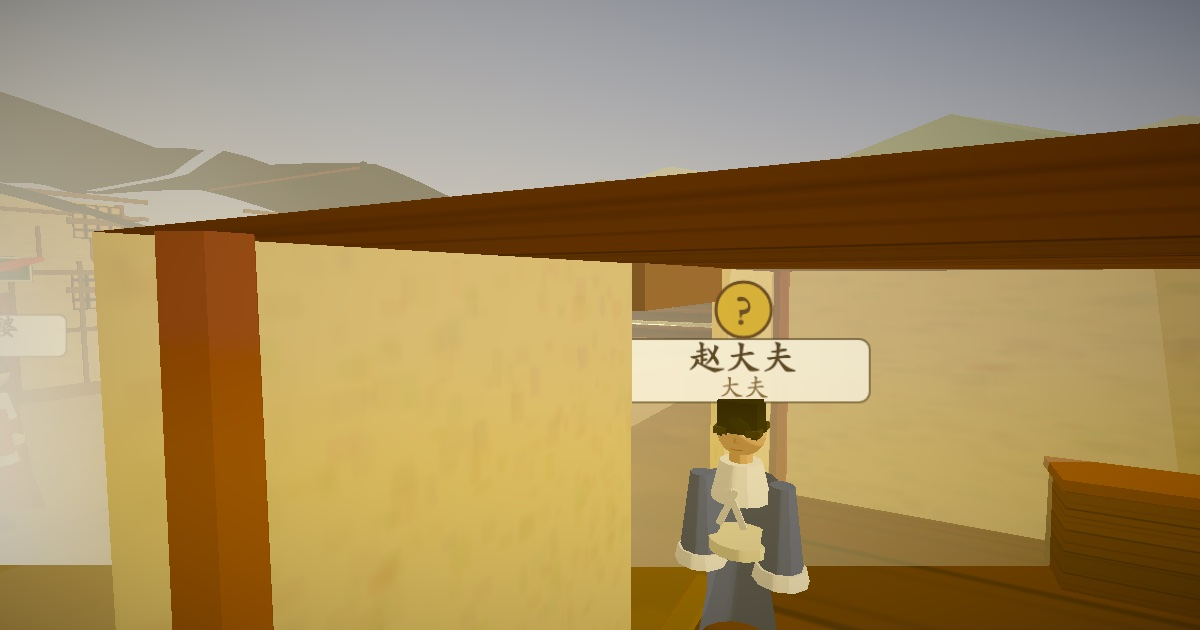
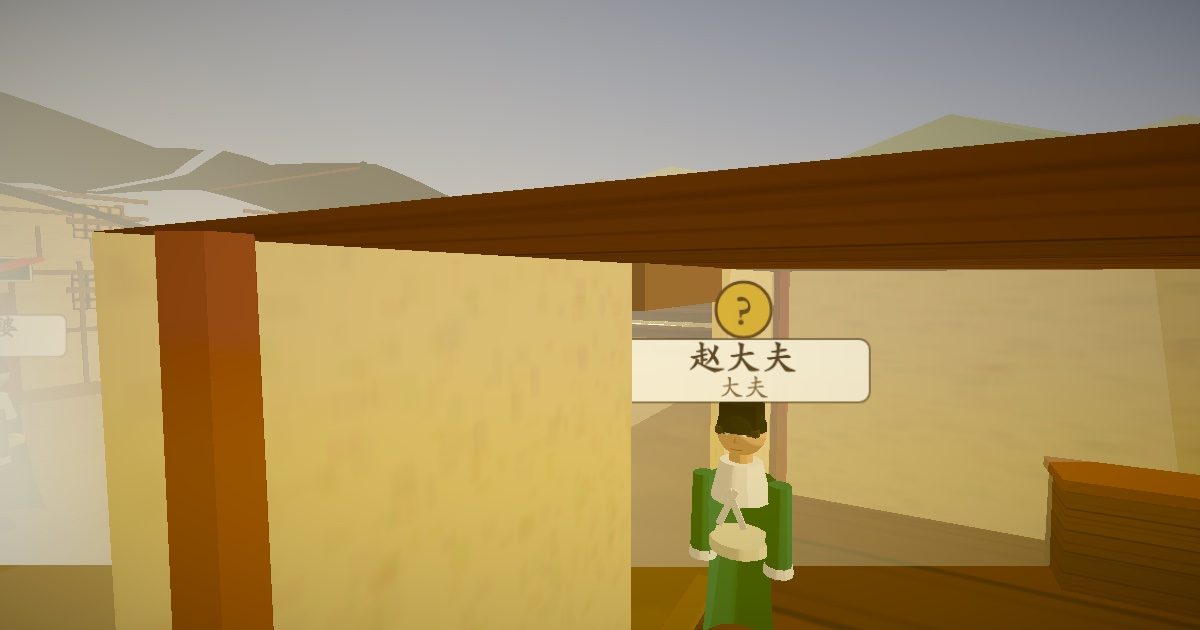
江湖风调校：翩翩公子束发玉冠 / 修身直袖 / 简洁乌纱帽
- 袖子：宽官袖 → 修身直袖（男 0.10H→0.058H），利落不臃肿
- 长袍：A字散摆 → 直裰修身（肩→腰→摆，束腰显身段）
- 帽子：夸张双翼官帽 → 简洁乌纱帽(圆帽+细金沿)，删 futou/official
- 书生/主角：束发+玉冠(金环+顶珠)翩翩公子造型，无需帽子
- NPC 衣料色板扩充，市井配色更多样
- og-cover 重生成

Changed region(s): [[0.555, 0.7238, 0.6783, 1.0], [0.5858, 0.6333, 0.6475, 0.6635]]

diff --git a/src/chars/Character.js b/src/chars/Character.js
@@ -66,16 +66,16 @@ export class Character extends THREE.Group {
       sash.position.y = H * 0.15;
       this.body.add(sash);
     } else {
-      // 长袍：肩→腰→摆的优雅曲线（交领右衽）
+      // 直裰长袍：修身合体（肩略宽→腰收→摆微展），翩翩公子般挺拔
       const robe = new THREE.Mesh(new THREE.LatheGeometry([
-        new THREE.Vector2(H * 0.17 * g, H * 0.38),   // 肩
-        new THREE.Vector2(H * 0.146 * g, H * 0.12),  // 腰（微收）
-        new THREE.Vector2(H * 0.153 * g, -H * 0.14), // 胯
-        new THREE.Vector2(H * 0.197 * g, -H * 0.38), // 摆
+        new THREE.Vector2(H * 0.16 * g, H * 0.38),   // 肩
+        new THREE.Vector2(H * 0.138 * g, H * 0.12),  // 腰（收束显身段）
+        new THREE.Vector2(H * 0.15 * g, -H * 0.14),  // 胯
+        new THREE.Vector2(H * 0.175 * g, -H * 0.38), // 摆（微展，行走飘动）
       ], 16), clothMat);
       this.body.add(robe);
-      // 腰带
-      const sash = new THREE.Mesh(new THREE.CylinderGeometry(H * 0.15 * g, H * 0.15 * g, H * 0.05, 16), trimMat);
+      // 腰带（束腰显身段）
+      const sash = new THREE.Mesh(new THREE.CylinderGeometry(H * 0.142 * g, H * 0.142 * g, H * 0.05, 16), trimMat);
       sash.position.y = H * 0.10;
       this.body.add(sash);
     }
@@ -121,24 +121,24 @@ export class Character extends THREE.Group {
     this._applyHeadStyle(headR);
     this.add(this.headGroup);
 
-    // ---- 宽袖（肩枢轴：宽袖口 + 白内衬 + 露手） ----
-    const shoulderW = (isWoman ? H * 0.34 : H * 0.38) * g;
-    const sTopR = isWoman ? H * 0.045 : H * 0.052;
-    const sCuffR = isWoman ? H * 0.075 : H * 0.10;
-    const sLen = isWoman ? H * 0.34 : H * 0.40;
+    // ---- 直袖（肩枢轴：修身直袖 + 细白内衬 + 露手），江湖利落 ----
+    const shoulderW = (isWoman ? H * 0.32 : H * 0.36) * g;
+    const sTopR = isWoman ? H * 0.04 : H * 0.048;
+    const sCuffR = isWoman ? H * 0.05 : H * 0.058;   // 近直袖（微展），不臃肿
+    const sLen = isWoman ? H * 0.34 : H * 0.38;
     this.shoulderL = this._limbPivot(-shoulderW / 2, shoulderY);
     this.shoulderR = this._limbPivot(shoulderW / 2, shoulderY);
     for (const p of [this.shoulderL, this.shoulderR]) {
       const sleeve = new THREE.Mesh(new THREE.CylinderGeometry(sTopR, sCuffR, sLen, 10), clothMat);
       sleeve.position.y = -sLen / 2;
       p.add(sleeve);
-      // 袖口白内衬（露出内衬边）
-      const cuff = new THREE.Mesh(new THREE.CylinderGeometry(sCuffR * 1.04, sCuffR * 1.18, H * 0.06, 10), toon({ color: this.app.sleeveColor || 0xf2ecda }));
-      cuff.position.y = -sLen + H * 0.03;
+      // 袖口细白内衬
+      const cuff = new THREE.Mesh(new THREE.CylinderGeometry(sCuffR * 1.02, sCuffR * 1.1, H * 0.04, 10), toon({ color: this.app.sleeveColor || 0xf2ecda }));
+      cuff.position.y = -sLen + H * 0.022;
       p.add(cuff);
-      // 袖口露出的手
-      const hand = new THREE.Mesh(new THREE.SphereGeometry(sCuffR * 0.8, 10, 8), skinMat);
-      hand.position.y = -sLen + H * 0.06;
+      // 袖口露出的手（小巧）
+      const hand = new THREE.Mesh(new THREE.SphereGeometry(sCuffR * 0.72, 8, 6), skinMat);
+      hand.position.y = -sLen + H * 0.045;
       p.add(hand);
       this.add(p);
     }
@@ -192,7 +192,17 @@ export class Character extends THREE.Group {
 
       if (hair === 'topknot') {            // 男子束发（插簪）
         bun(0, headR * 0.78, H * 0.045);
-        pin(0, headR * 0.78);
+        if (this.app.crown) {
+          // 翩翩公子：束发玉冠（金环束发 + 顶珠）
+          const ring = new THREE.Mesh(new THREE.CylinderGeometry(H * 0.058, H * 0.058, H * 0.038, 12), gold);
+          ring.position.y = headR * 0.58;
+          this.headGroup.add(ring);
+          const bead = new THREE.Mesh(new THREE.SphereGeometry(H * 0.015, 6, 5), gold);
+          bead.position.y = headR * 0.88;
+          this.headGroup.add(bead);
+        } else {
+          pin(0, headR * 0.78);
+        }
       } else if (hair === 'gaoji') {       // 女子高髻（竖立 + 簪花）
         const gaoji = new THREE.Mesh(new THREE.SphereGeometry(H * 0.055, 12, 10), hairMat);
         gaoji.scale.y = 1.7;
@@ -213,22 +223,20 @@ export class Character extends THREE.Group {
 
     // ---- 帽（宋制） ----
     const darkMat = toon({ color: 0x1c1814 });
-    if (hat === 'futou') {
-      // 幞头：圆帽 + 两直脚平展（宋式直脚幞头）
-      const dome = new THREE.Mesh(new THREE.SphereGeometry(headR * 1.06, 16, 12, 0, Math.PI * 2, 0, Math.PI / 2), darkMat);
-      dome.position.y = headR * 0.32;
-      this.headGroup.add(dome);
-      for (const s of [-1, 1]) {
-        const wing = new THREE.Mesh(flat(new THREE.BoxGeometry(H * 0.26, H * 0.013, H * 0.02)), darkMat);
-        wing.position.set(s * H * 0.12, headR * 0.34, -headR * 1.0);
-        this.headGroup.add(wing);
-      }
+    if (hat === 'guan') {
+      // 乌纱帽：贴合圆帽 + 细金沿（官/将/衙），去夸张翅膀
+      const cap = new THREE.Mesh(new THREE.SphereGeometry(headR * 0.98, 16, 12, 0, Math.PI * 2, 0, Math.PI / 2), darkMat);
+      cap.position.y = headR * 0.34;
+      this.headGroup.add(cap);
+      const band = new THREE.Mesh(flat(new THREE.CylinderGeometry(headR * 1.0, headR * 1.0, H * 0.02, 14)), gold);
+      band.position.y = headR * 0.16;
+      this.headGroup.add(band);
     } else if (hat === 'dongpo') {
       // 东坡巾：软方帽 + 帽缘横带
-      const square = new THREE.Mesh(flat(new THREE.BoxGeometry(headR * 1.6, H * 0.15, headR * 1.6)), darkMat);
-      square.position.y = headR * 0.62;
+      const square = new THREE.Mesh(flat(new THREE.BoxGeometry(headR * 1.5, H * 0.13, headR * 1.5)), darkMat);
+      square.position.y = headR * 0.58;
       this.headGroup.add(square);
-      const band = new THREE.Mesh(flat(new THREE.BoxGeometry(headR * 1.85, H * 0.028, headR * 1.85)), toon({ color: 0x3a3226 }));
+      const band = new THREE.Mesh(flat(new THREE.BoxGeometry(headR * 1.7, H * 0.026, headR * 1.7)), toon({ color: 0x3a3226 }));
       band.position.y = headR * 0.14;
       this.headGroup.add(band);
     } else if (hat === 'jin') {
@@ -244,17 +252,6 @@ export class Character extends THREE.Group {
       const brim = new THREE.Mesh(flat(new THREE.CylinderGeometry(headR * 2.4, headR * 2.4, H * 0.018, 16)), toon({ color: 0xd9c47f }));
       brim.position.y = headR * 0.30;
       this.headGroup.add(brim);
-    } else if (hat === 'official') {
-      // 官帽：圆帽 + 两直脚（微上扬）
-      const dome = new THREE.Mesh(new THREE.SphereGeometry(headR * 1.06, 16, 12, 0, Math.PI * 2, 0, Math.PI / 2), darkMat);
-      dome.position.y = headR * 0.32;
-      this.headGroup.add(dome);
-      for (const s of [-1, 1]) {
-        const wing = new THREE.Mesh(flat(new THREE.BoxGeometry(H * 0.22, H * 0.013, H * 0.02)), darkMat);
-        wing.position.set(s * H * 0.10, headR * 0.36, -headR * 1.0);
-        wing.rotation.x = 0.18;
-        this.headGroup.add(wing);
-      }
     } else if (hat === 'guanyin') {
       // 包髻（厨娘/织女头巾）
       const wrap = new THREE.Mesh(new THREE.CylinderGeometry(headR * 1.06, headR * 0.96, H * 0.14, 12), toon({ color: 0xcaa24a }));

diff --git a/src/chars/appearance.js b/src/chars/appearance.js
@@ -8,25 +8,25 @@ export const HAIR_COLORS = ['#241a14', '#33241a', '#3d2a1c', '#4a3422', '#6b5138
 export const ROLE_PRESETS = {
   huolang:     { hat: 'straw', cloth: [0x8a6d3b, 0x6e8a4f, 0x7a5a34], trim: 0xc04a30, apron: 0xc9b478 },
   vendor:      { hat: 'straw', cloth: [0x955f8f, 0xb07c36, 0x54725a], trim: 0x2a2018 },
-  waiter:      { hat: 'jin',   cloth: [0x2f6d4f, 0x4a6b9a, 0x6e8a4f], trim: 0xc9a24a, apron: 0xe0d0a0, sleeveColor: 0xffffff },
-  tea:         { hat: 'jin',   cloth: [0x3c7a82, 0x5d6f9e], trim: 0xc9a24a },
-  scholar:     { hat: 'futou', cloth: [0x4a6b9a, 0x3a5a8a, 0x5d6f9e], trim: 0xe8dcb0, sleeveColor: 0xffffff },
+  waiter:      { hat: 'jin',   cloth: [0x2f6d4f, 0x4a6b9a, 0x6e8a4f, 0x955f8f, 0xb0622f], trim: 0xc9a24a, apron: 0xe0d0a0, sleeveColor: 0xffffff },
+  tea:         { hat: 'jin',   cloth: [0x3c7a82, 0x5d6f9e, 0x54725a, 0x8a6d3b], trim: 0xc9a24a },
+  scholar:     { hat: 'none',  cloth: [0x4a6b9a, 0x3a5a8a, 0x5d6f9e, 0x7a5aa0, 0x2f6d4f], trim: 0xe8dcb0, sleeveColor: 0xffffff, crown: true },
   monk:        { hat: 'none',  cloth: [0xa86e54, 0xb07c36, 0x955f8f], trim: 0xf0e0a0 },
-  boatman:     { hat: 'straw', cloth: [0x7a5a34, 0x8a6d3b, 0x6e4f2c], trim: 0x4a3a28, apron: 0x6e8a4f },
-  porter:      { hat: 'jin',   cloth: [0x6e5a3c, 0x5a4a30], trim: 0x2a2018 },
-  yamen:       { hat: 'futou', cloth: [0xb04a4a, 0x8a3a3a], trim: 0xc9b478, sleeveColor: 0xffffff },
-  general:     { hat: 'official', cloth: [0x3a3a52, 0x4a4a62], trim: 0xcaa24a },
-  storyteller: { hat: 'jin',   cloth: [0xb07c36, 0xa8642e], trim: 0xe8dcb0 },
-  doctor:      { hat: 'dongpo', cloth: [0x5d6f9e, 0x4a5a8a], trim: 0xe8dcb0 },
-  farmer:      { hat: 'straw', cloth: [0x8a7a5a, 0x6e8a4f], trim: 0x4a3a28, apron: 0xa0906a },
-  child:       { hat: 'none',  cloth: [0xd8b23c, 0xc04a30, 0x3f7a4a, 0x5d6f9e], trim: 0xffffff },
-  official:    { hat: 'official', cloth: [0x4a4a5a, 0x5a4a4a], trim: 0xcaa24a },
-  woman:       { hat: 'none',  cloth: [0xa84a5a, 0x7a5aa0, 0xc04a30, 0x3c7a82, 0xb0622f], trim: 0xf0e0a0, sleeveColor: 0xffffff },
-  cook:        { hat: 'guanyin', cloth: [0xa86e54, 0x8a6d3b], trim: 0x4a3a28, apron: 0xd8c8a0 },
-  acrobat:     { hat: 'jin',   cloth: [0xd04a30, 0xb07c36], trim: 0xf0e0a0, sleeveColor: 0xe0d0a0 },
+  boatman:     { hat: 'straw', cloth: [0x7a5a34, 0x8a6d3b, 0x6e4f2c, 0x3c7a82], trim: 0x4a3a28, apron: 0x6e8a4f },
+  porter:      { hat: 'jin',   cloth: [0x6e5a3c, 0x5a4a30, 0x955f8f], trim: 0x2a2018 },
+  yamen:       { hat: 'guan',  cloth: [0xb04a4a, 0x8a3a3a], trim: 0xc9b478, sleeveColor: 0xffffff },
+  general:     { hat: 'guan',  cloth: [0x3a3a52, 0x4a4a62, 0x2c4a4a], trim: 0xcaa24a },
+  storyteller: { hat: 'jin',   cloth: [0xb07c36, 0xa8642e, 0x5d6f9e], trim: 0xe8dcb0 },
+  doctor:      { hat: 'dongpo', cloth: [0x5d6f9e, 0x4a5a8a, 0x2f6d4f], trim: 0xe8dcb0 },
+  farmer:      { hat: 'straw', cloth: [0x8a7a5a, 0x6e8a4f, 0xa8642e], trim: 0x4a3a28, apron: 0xa0906a },
+  child:       { hat: 'none',  cloth: [0xd8b23c, 0xc04a30, 0x3f7a4a, 0x5d6f9e, 0x955f8f], trim: 0xffffff },
+  official:    { hat: 'guan',  cloth: [0x4a4a5a, 0x5a4a4a, 0x3a3a52], trim: 0xcaa24a },
+  woman:       { hat: 'none',  cloth: [0xa84a5a, 0x7a5aa0, 0xc04a30, 0x3c7a82, 0xb0622f, 0x955f8f], trim: 0xf0e0a0, sleeveColor: 0xffffff },
+  cook:        { hat: 'guanyin', cloth: [0xa86e54, 0x8a6d3b, 0x6e8a4f], trim: 0x4a3a28, apron: 0xd8c8a0 },
+  acrobat:     { hat: 'jin',   cloth: [0xd04a30, 0xb07c36, 0x4a6b9a], trim: 0xf0e0a0, sleeveColor: 0xe0d0a0 },
   guest:       { hat: 'none',  cloth: CLOTH_PALETTE, trim: 0x2a2018 },
-  weaver:      { hat: 'guanyin', cloth: [0x3c7a82, 0x5d9a8a], trim: 0xe8dcb0 },
-  fish:        { hat: 'straw', cloth: [0x6e8a4f, 0x7a5a34], trim: 0x4a3a28, apron: 0xc9b478 },
+  weaver:      { hat: 'guanyin', cloth: [0x3c7a82, 0x5d9a8a, 0x955f8f], trim: 0xe8dcb0 },
+  fish:        { hat: 'straw', cloth: [0x6e8a4f, 0x7a5a34, 0x4a6b9a], trim: 0x4a3a28, apron: 0xc9b478 },
 };
 
 // 生成一份外观配置（可传 seed 保证同一 NPC 每次一致）
@@ -69,6 +69,7 @@ export function generateAppearance(role = 'guest', seed = 0) {
     hair: faceCfg.hair,
     hairStyle,
     hat: preset.hat,
+    crown: !!preset.crown,            // 束发玉冠（翩翩公子）
     cloth: typeof preset.cloth === 'number' ? preset.cloth : pick(preset.cloth),
     trim: preset.trim,
     apron: preset.apron || null,
@@ -79,10 +80,11 @@ export function generateAppearance(role = 'guest', seed = 0) {
   };
 }
 
-// 玩家外观：一位进京赶考的书生
+// 玩家外观：一位进京赶考的翩翩公子（束发玉冠 · 青衫直裰）
 export function playerAppearance() {
   const app = generateAppearance('scholar', 20260802);
-  app.hat = 'futou';
+  app.hat = 'none';
+  app.crown = true;                     // 束发玉冠
   app.hairStyle = 'topknot';
   app.cloth = 0x3a5a8a;
   app.trim = 0xe8dcb0;

diff --git a/docs/04-CHANGELOG.md b/docs/04-CHANGELOG.md
@@ -1,7 +1,7 @@
 # 《汴京漫游》迭代记录
 
-> 覆盖：初始构建 → 玩法完善 → 性能优化 → 移动端适配 → 大规模 Bug 修复 → 发布打磨 → 人物美化 → 汉服化
-> 最新提交：`58638bb`（人物汉服化：交领长袍 · 襦裙 · 幞头 · 高髻）
+> 覆盖：初始构建 → 玩法完善 → 性能优化 → 移动端适配 → 大规模 Bug 修复 → 发布打磨 → 人物美化 → 汉服化 → 江湖风
+> 最新提交：`江湖风调校`（翩翩公子 · 直袖 · 束发玉冠 · 乌纱帽）
 
 ## 阶段一：初始构建与部署
 
@@ -227,6 +227,12 @@
 | 提交 | 内容 |
 |---|---|
 | `58638bb` | **告别现代裤装，整体汉服化**。**服装（汉服剪影）**：男穿**交领右衽长袍**（`LatheGeometry` 肩→腰微收→摆散开的优雅曲线，覆盖至脚踝）；女穿**襦裙**（短襦 + 高腰 A 字散摆裙，高腰线突出身形修长）；均加**交领白内衬**（颈圈白边 + 胸前 V 带右衽）、**腰带**、**宽袖**（袖口外宽 + 白内衬袖口 + 露手）、**围裙**（货郎/船夫/厨娘）、**袍下鞋履**。**发型（宋制）**：男子束发插**簪**；女子**高髻**（竖立椭圆髻+簪花）或**双髻**+簪花；孩童**总角**；僧人光头。**帽子（宋制）**：**幞头**（圆帽+两直脚平展，宋式直脚幞头）、**东坡巾**（软方帽+帽缘带）、**斗笠**（锥顶+宽沿）、**布巾**、**官帽**、**包髻**。**动画**：去膝盖逻辑，长袍随行走起伏/轻摆，足部袍下微移。身材比例按汉服美感：男肩宽身直袍垂，女高腰裙摆散开。selftest/features/qa 全过，E2E 桌面 33/手机 14 全过，0 控制台错误 |
+
+## 阶段三十六：江湖风调校（翩翩公子 · 直袖 · 束发玉冠 · 乌纱帽）
+
+| 提交 | 内容 |
+|---|---|
+| `江湖风` | 用户反馈"袖子太大、官袍官帽不好看、要翩翩公子/江湖帅"。**袖子**：宽官袖 → **修身直袖**（近等宽微展，男 cuff 0.10H→0.058H，女 0.075H→0.05H），利落不臃肿。**长袍**：A 字散摆 → **直裰修身**（肩 0.16g→腰 0.138g→摆 0.175g，束腰显身段）。**帽子**：夸张双翼幞头/官帽 → **简洁乌纱帽**（贴合圆帽 + 细金沿，官/将/衙用）；删 futou/official 分支。**翩翩公子**：书生/主角改**束发 + 玉冠**（金环束发 + 顶珠，`app.crown`），无需帽子。**颜色多样**：角色衣料色板扩充（waiter/tea/scholar/boatman/woman/guest 等各加 1-3 色）。selftest/features/qa 全过，E2E 桌面 33/手机 14 全过，0 控制台错误 |
 
 ## 经验教训（后续开发必读）
 
